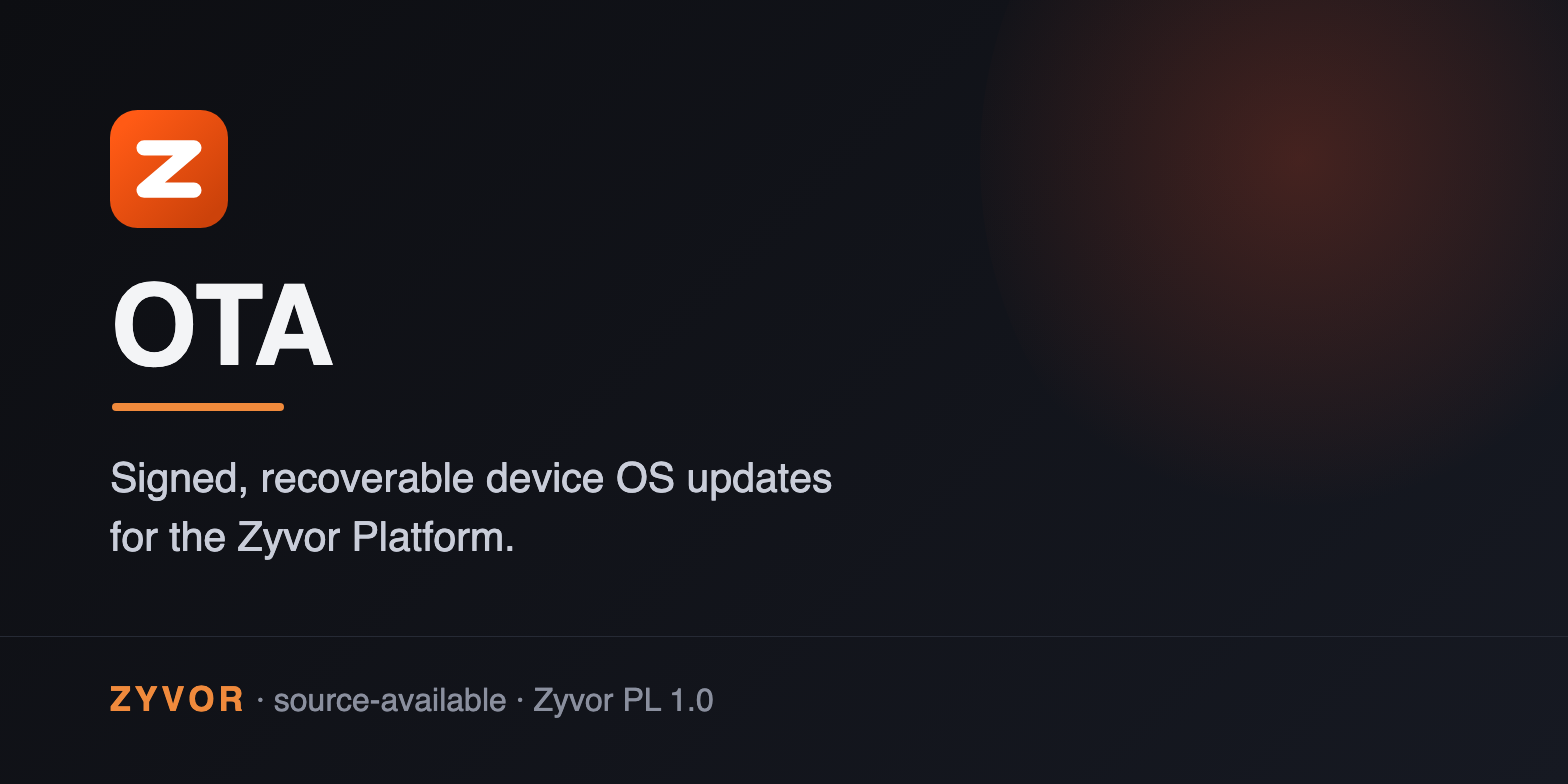
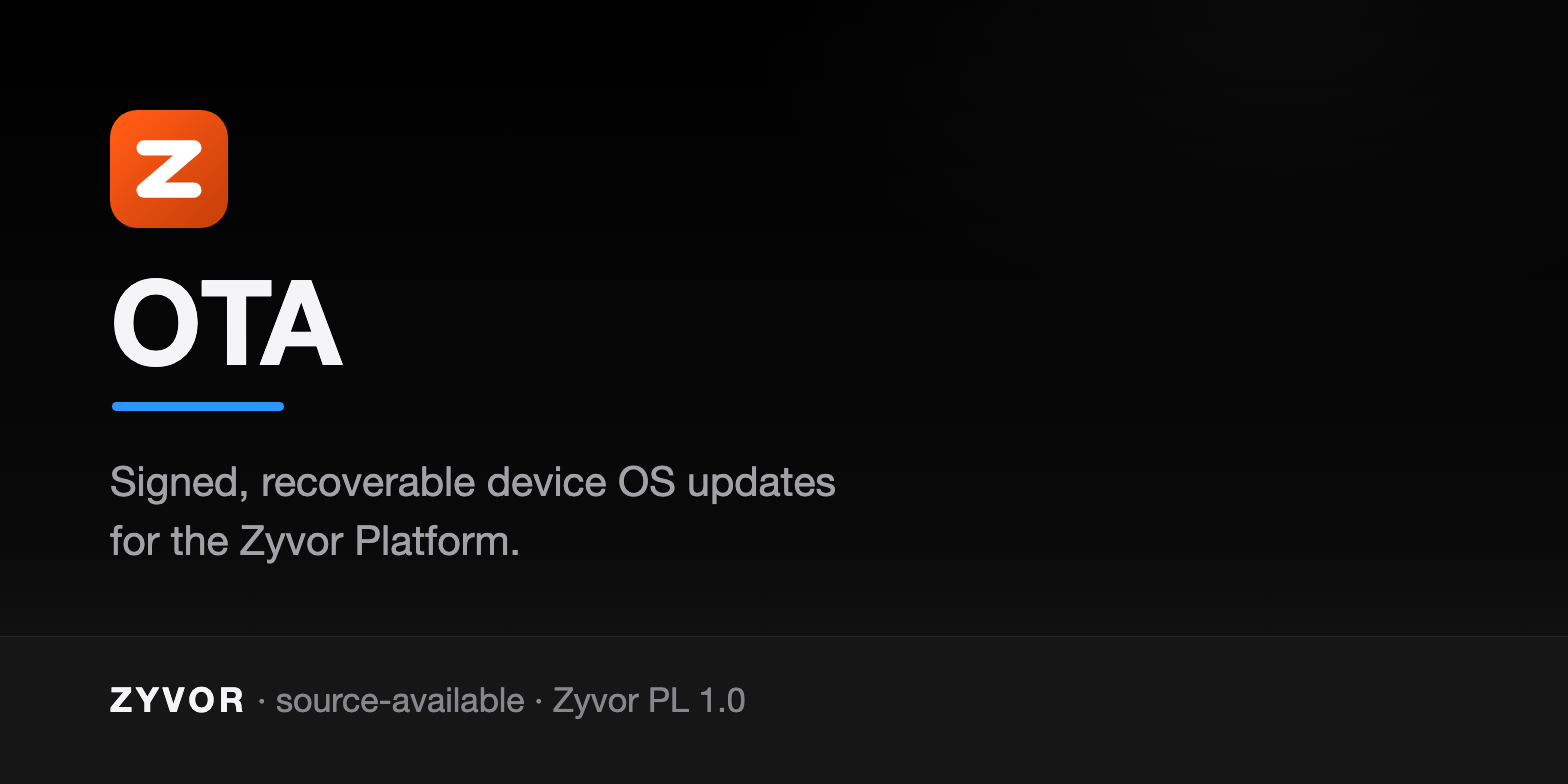
docs: remove community tier, apple-dark social cards

diff --git a/docs/social/ota-social-card.html b/docs/social/ota-social-card.html
@@ -4,12 +4,12 @@
 <meta charset="utf-8">
 <title>Zyvor OTA social card</title>
 <style>
-  :root { --ink:#0d0d0c; --soft:#5a544c; --signal:#ff5a15; --deep:#cc420a; --warm:#fbf7f2;
-    --blue:#2b5fd9; --green:#1f7a4d;
+  :root { --ink:#f5f5f7; --soft:#86868b; --signal:#2997ff; --btn:#0071e3; --deep:#2997ff; --warm:#000;
+    --blue:#5e5ce6; --green:#248a3d;
     --sans:'Helvetica Neue',Helvetica,Arial,sans-serif; --mono:'SF Mono',Menlo,Consolas,monospace; }
   * { box-sizing:border-box; }
   html,body { margin:0; padding:0; }
-  body { width:1600px; height:900px; overflow:hidden; background:var(--warm); color:var(--ink); font-family:var(--sans); position:relative; }
+  body { width:1600px; height:900px; overflow:hidden; background:radial-gradient(900px 520px at 78% 0%,rgba(255,255,255,.04),transparent 62%),#000; color:var(--ink); font-family:var(--sans); position:relative; }
   .bar { position:absolute; left:0; top:0; bottom:0; width:14px; background:var(--signal); }
   .wrap { position:absolute; left:72px; right:64px; top:48px; bottom:40px; display:flex; flex-direction:column; }
   .top { display:flex; align-items:center; gap:14px; font-family:var(--mono); font-size:20px; letter-spacing:.14em; text-transform:uppercase; color:var(--soft); }
@@ -18,9 +18,9 @@
   .top .r { margin-left:auto; letter-spacing:.08em; }
   h1 { margin:26px 0 0; font-size:64px; line-height:1.06; letter-spacing:-.025em; font-weight:700; max-width:1440px; }
   h1 em { font-style:normal; color:var(--signal); }
-  .sub { margin:16px 0 0; font-size:27px; line-height:1.36; color:#26231f; max-width:1320px; }
+  .sub { margin:16px 0 0; font-size:27px; line-height:1.36; color:#a1a1a6; max-width:1320px; }
   .flow { margin-top:34px; display:grid; grid-template-columns:repeat(5,1fr); gap:34px; }
-  .step { position:relative; background:#fff; border:2.5px solid var(--c); border-radius:16px; padding:18px 20px 18px 24px; min-height:222px; }
+  .step { position:relative; background:#1d1d1f; border:2.5px solid var(--c); border-radius:16px; padding:18px 20px 18px 24px; min-height:222px; }
   .step::before { content:""; position:absolute; left:0; top:0; bottom:0; width:9px; background:var(--c); border-radius:13px 0 0 13px; }
   .step:not(:last-child)::after { content:""; position:absolute; right:-31px; top:50%; width:0; height:0; margin-top:-11px;
     border-left:16px solid var(--soft); border-top:11px solid transparent; border-bottom:11px solid transparent; }
@@ -28,14 +28,14 @@
   .n { float:right; width:34px; height:34px; border-radius:50%; background:var(--c); color:#fff; font-weight:700; font-size:19px; line-height:34px; text-align:center; }
   .step h3 { margin:14px 0 8px; font-size:27px; line-height:1.14; letter-spacing:-.01em; }
   .step p { margin:0; font-size:20.5px; line-height:1.34; color:var(--soft); }
-  .k { --c:var(--signal); } .a { --c:var(--ink); } .c { --c:var(--blue); } .o { --c:var(--green); } .o2 { --c:var(--deep); }
-  .attr { margin-top:22px; display:flex; align-items:center; gap:16px; background:var(--ink); color:#f3ede4; border-radius:12px; padding:13px 22px; font-family:var(--mono); font-size:22px; white-space:nowrap; }
+  .k { --c:var(--btn); } .a { --c:#86868b; } .c { --c:var(--blue); } .o { --c:var(--green); } .o2 { --c:var(--deep); }
+  .attr { margin-top:22px; display:flex; align-items:center; gap:16px; background:#1d1d1f; border:1px solid rgba(255,255,255,.08); color:#f5f5f7; border-radius:12px; padding:13px 22px; font-family:var(--mono); font-size:22px; white-space:nowrap; }
   .attr .tag { color:var(--signal); font-weight:700; letter-spacing:.1em; font-size:16px; }
-  .attr .why { margin-left:auto; color:#a39a8d; font-size:15px; letter-spacing:.06em; text-transform:uppercase; }
+  .attr .why { margin-left:auto; color:#86868b; font-size:15px; letter-spacing:.06em; text-transform:uppercase; }
   .chips { margin-top:auto; padding-top:22px; display:flex; flex-wrap:wrap; gap:10px; }
-  .chip { font-size:20px; font-weight:700; padding:5px 14px; border-radius:20px; background:var(--signal); color:#fff; border:2px solid var(--signal); }
-  .chip.g { background:#fff; color:var(--deep); border:2px solid var(--signal); }
-  .foot { margin-top:18px; padding-top:14px; border-top:3px solid var(--ink); display:flex; align-items:center; font-family:var(--mono); font-size:22px; color:var(--soft); }
+  .chip { font-size:20px; font-weight:700; padding:5px 14px; border-radius:20px; background:var(--btn); color:#fff; border:2px solid var(--btn); }
+  .chip.g { background:#1d1d1f; color:var(--deep); border:2px solid var(--signal); }
+  .foot { margin-top:18px; padding-top:14px; border-top:1px solid rgba(255,255,255,.12); display:flex; align-items:center; font-family:var(--mono); font-size:22px; color:var(--soft); }
   .foot b { color:var(--ink); }
   .foot .r { margin-left:auto; }
 </style>

diff --git a/site/index.html b/site/index.html
@@ -175,14 +175,14 @@ otactl -socket /run/zyvor-ota/agent.sock job job-001</code></pre><button class="
 
   <section id="license">
     <h2>License</h2>
-    <p class="sub">Zyvor OTA is source-available under the <a href="https://github.com/zyvorai/ota/blob/main/LICENSE">Zyvor Production License v1.0</a>. Non-production use (evaluation, development, testing, research, education) is free; production use requires a commercial license from Zyvor AI Labs (<a href="mailto:sales@zyvor.dev">sales@zyvor.dev</a>, <a href="https://zyvor.dev/buy">zyvor.dev/buy</a>). Preserve notices and the <a href="https://github.com/zyvorai/ota/blob/main/NOTICE">NOTICE</a> file where required.</p>
+    <p class="sub">Zyvor OTA is source-available under the <a href="https://github.com/zyvorai/ota/blob/main/LICENSE">Zyvor Production License v1.0</a>. A commercial license from Zyvor AI Labs is required to run it (<a href="mailto:sales@zyvor.dev">sales@zyvor.dev</a>, <a href="https://zyvor.dev/buy">zyvor.dev/buy</a>). Preserve notices and the <a href="https://github.com/zyvorai/ota/blob/main/NOTICE">NOTICE</a> file where required.</p>
     <p class="sub">Original Zyvor OTA source is Zyvor Production License. Vendored dependencies retain their own licenses (see <a href="https://github.com/zyvorai/ota/blob/main/THIRD_PARTY_NOTICES.md">THIRD_PARTY_NOTICES.md</a>). RAUC is an external runtime dependency and is not relicensed by this project.</p>
   </section>
 
   <section id="support">
     <h2>Support the project</h2>
     <div class="support">
-      <p>Non-production use is free under the Zyvor Production License v1.0; production use requires a commercial license (sales@zyvor.dev). If it helps you, you can donate any amount you like: <a href="https://rzp.io/rzp/utwdYh3">https://rzp.io/rzp/utwdYh3</a>. A donation is voluntary and supports development and maintenance. It is not a purchase: it buys no support, SLA, features, priority or license, and it is not tax-deductible (Zyvor AI Labs Private Limited is a company, not a charity). Zyvor Enterprise (supported releases, SLAs, a named contact and enterprise features) is separate: <a href="mailto:sales@zyvor.dev">sales@zyvor.dev</a>.</p>
+      <p>A commercial license is required to run it (sales@zyvor.dev); a 30-day trial key is how to evaluate. If it helps you, you can donate any amount you like: <a href="https://rzp.io/rzp/utwdYh3">https://rzp.io/rzp/utwdYh3</a>. A donation is voluntary and supports development and maintenance. It is not a purchase: it buys no support, SLA, features, priority or license, and it is not tax-deductible (Zyvor AI Labs Private Limited is a company, not a charity). Zyvor Enterprise (supported releases, SLAs, a named contact and enterprise features) is separate: <a href="mailto:sales@zyvor.dev">sales@zyvor.dev</a>.</p>
       <p class="cta"><a class="btn primary" href="https://rzp.io/rzp/utwdYh3">Donate any amount</a><a class="link" href="mailto:sales@zyvor.dev">Looking for enterprise support? Contact sales</a></p>
     </div>
   </section>

diff --git a/docs/social/ota-share-card.html b/docs/social/ota-share-card.html
@@ -4,11 +4,11 @@
 <meta charset="utf-8">
 <title>Zyvor OTA share card</title>
 <style>
-  :root { --ink:#0d0d0c; --soft:#5a544c; --signal:#ff5a15; --deep:#cc420a; --warm:#fbf7f2;
+  :root { --ink:#f5f5f7; --soft:#86868b; --signal:#2997ff; --btn:#0071e3; --deep:#2997ff; --warm:#000;
     --sans:'Helvetica Neue',Helvetica,Arial,sans-serif; --mono:'SF Mono',Menlo,Consolas,monospace; }
   * { box-sizing:border-box; }
   html,body { margin:0; padding:0; }
-  body { width:1200px; height:630px; overflow:hidden; background:var(--warm); color:var(--ink); font-family:var(--sans); position:relative; }
+  body { width:1200px; height:630px; overflow:hidden; background:radial-gradient(900px 520px at 78% 0%,rgba(255,255,255,.04),transparent 62%),#000; color:var(--ink); font-family:var(--sans); position:relative; }
   .bar { position:absolute; left:0; top:0; bottom:0; width:12px; background:var(--signal); }
   .wrap { position:absolute; left:56px; right:48px; top:40px; bottom:36px; display:flex; flex-direction:column; }
   .top { display:flex; align-items:center; gap:12px; font-family:var(--mono); font-size:18px; letter-spacing:.14em; text-transform:uppercase; color:var(--soft); }
@@ -17,11 +17,11 @@
   .top .r { margin-left:auto; letter-spacing:.08em; }
   h1 { margin:36px 0 0; font-size:52px; line-height:1.08; letter-spacing:-.025em; font-weight:700; max-width:1080px; }
   h1 em { font-style:normal; color:var(--signal); }
-  .sub { margin:18px 0 0; font-size:24px; line-height:1.4; color:#26231f; max-width:980px; }
+  .sub { margin:18px 0 0; font-size:24px; line-height:1.4; color:#a1a1a6; max-width:980px; }
   .chips { margin-top:auto; display:flex; flex-wrap:wrap; gap:10px; padding-bottom:18px; }
-  .chip { font-size:18px; font-weight:700; padding:6px 14px; border-radius:20px; background:var(--signal); color:#fff; border:2px solid var(--signal); }
-  .chip.g { background:#fff; color:var(--deep); border:2px solid var(--signal); }
-  .foot { padding-top:14px; border-top:3px solid var(--ink); display:flex; align-items:center; font-family:var(--mono); font-size:20px; color:var(--soft); }
+  .chip { font-size:18px; font-weight:700; padding:6px 14px; border-radius:20px; background:var(--btn); color:#fff; border:2px solid var(--btn); }
+  .chip.g { background:#1d1d1f; color:var(--deep); border:2px solid var(--signal); }
+  .foot { padding-top:14px; border-top:1px solid rgba(255,255,255,.12); display:flex; align-items:center; font-family:var(--mono); font-size:20px; color:var(--soft); }
   .foot b { color:var(--ink); }
   .foot .r { margin-left:auto; }
 </style>

diff --git a/docs/social/ota-preview.html b/docs/social/ota-preview.html
@@ -1,0 +1,21 @@
+<!doctype html>
+<html lang="en"><head><meta charset="utf-8"><title>OTA social preview</title>
+<style>
+* { box-sizing:border-box; }
+html,body { margin:0; padding:0; }
+body { width:1568px; height:784px; overflow:hidden; position:relative; color:#f5f5f7;
+  font-family:'Helvetica Neue',Helvetica,Arial,sans-serif;
+  background:radial-gradient(900px 520px at 82% 0%,rgba(255,255,255,.04),transparent 62%),linear-gradient(180deg,#000 0%,#0a0a0b 70%,#1d1d1f 100%); }
+.mark { position:absolute; left:110px; top:110px; width:118px; height:118px; }
+h1 { position:absolute; left:110px; top:262px; margin:0; font-size:118px; line-height:1; font-weight:700; letter-spacing:-.01em; }
+.rule { position:absolute; left:112px; top:402px; width:172px; height:9px; border-radius:5px; background:#2997ff; }
+p { position:absolute; left:110px; top:452px; margin:0; font-size:41px; line-height:59px; color:#a1a1a6; }
+.foot { position:absolute; left:0; right:0; bottom:0; height:148px; border-top:1px solid rgba(255,255,255,.08); background:#161617; }
+.foot div { position:absolute; left:110px; top:42px; font-size:34px; color:#86868b; }
+.foot b { color:#f5f5f7; letter-spacing:.12em; font-size:34px; }
+</style></head><body>
+<svg class="mark" viewBox="0 0 64 64" aria-hidden="true"><defs><linearGradient id="zb" x1="8" y1="8" x2="56" y2="56" gradientUnits="userSpaceOnUse"><stop offset="0" stop-color="#ff5a15"/><stop offset="1" stop-color="#cc420a"/></linearGradient></defs><rect width="64" height="64" rx="15" fill="url(#zb)"/><path d="M18.5,20.5 45.5,20.5 18.5,43.5 45.5,43.5" fill="none" stroke="#fff" stroke-width="8.3" stroke-linecap="round" stroke-linejoin="round"/></svg>
+<h1>OTA</h1><div class="rule"></div>
+<p>Signed, recoverable device OS updates<br>for the Zyvor Platform.</p>
+<div class="foot"><div><b>ZYVOR</b> &middot; source-available &middot; Zyvor PL 1.0</div></div>
+</body></html>

diff --git a/README.md b/README.md
@@ -295,11 +295,11 @@ Zyvor OTA is source-available under the **[Zyvor Production License v1.0](LICENS
 **Zyvor Enterprise** adds what production teams ask for: supported releases, deployment and upgrade guidance, priority incident triage, a named technical contact and 24x7 critical intake. Customers pay for operational leverage, not for rollback or signature checks.
 Those stay in the OTA agent. Enterprise is the Fleet dashboard, SSO and
 approvals, site relay, compliance evidence, certified board enablement, and
-support. See the [FAQ](docs/FAQ.md#community-and-enterprise). Plans and terms: [docs/SUBSCRIPTION-MODEL.md](docs/SUBSCRIPTION-MODEL.md) · [Pricing](https://zyvor.dev/pricing?utm_source=github&utm_medium=ota&utm_campaign=readme_license) · [sales@zyvor.dev](mailto:sales@zyvor.dev). Support from USD 8-18 per device per year (INR 793-1,784 incl. GST in India), USD 5,000 (INR 495,600) annual minimum; buy / get a quote at [zyvor.dev/buy](https://zyvor.dev/buy).
+support. See the [FAQ](docs/FAQ.md#what-is-included-and-what-enterprise-adds). Plans and terms: [docs/SUBSCRIPTION-MODEL.md](docs/SUBSCRIPTION-MODEL.md) · [Pricing](https://zyvor.dev/pricing?utm_source=github&utm_medium=ota&utm_campaign=readme_license) · [sales@zyvor.dev](mailto:sales@zyvor.dev). Support from USD 8-18 per device per year (INR 793-1,784 incl. GST in India), USD 5,000 (INR 495,600) annual minimum; buy / get a quote at [zyvor.dev/buy](https://zyvor.dev/buy).
 
 ## Support
 
-Non-production use is free under the Zyvor Production License v1.0; production use requires a commercial license (sales@zyvor.dev). If it helps you, you can donate any amount you like: <https://rzp.io/rzp/utwdYh3>. A donation is voluntary and supports development and maintenance. It is not a purchase: it buys no support, SLA, features, priority or license, and it is not tax-deductible (Zyvor AI Labs Private Limited is a company, not a charity). Zyvor Enterprise (supported releases, SLAs, a named contact and enterprise features) is separate: [sales@zyvor.dev](mailto:sales@zyvor.dev).
+A commercial license is required to run it (sales@zyvor.dev); a 30-day trial key is how to evaluate. If it helps you, you can donate any amount you like: <https://rzp.io/rzp/utwdYh3>. A donation is voluntary and supports development and maintenance. It is not a purchase: it buys no support, SLA, features, priority or license, and it is not tax-deductible (Zyvor AI Labs Private Limited is a company, not a charity). Zyvor Enterprise (supported releases, SLAs, a named contact and enterprise features) is separate: [sales@zyvor.dev](mailto:sales@zyvor.dev).
 
 ---
 

diff --git a/docs/SUBSCRIPTION-MODEL.md b/docs/SUBSCRIPTION-MODEL.md
@@ -1,12 +1,11 @@
 # Zyvor OTA: support subscriptions
 
-Zyvor OTA is source-available software. Non-production use is free under the Zyvor Production License v1.0; production use requires a commercial license (sales@zyvor.dev).
+Zyvor OTA is source-available software. A commercial license is required to run it (sales@zyvor.dev); a 30-day trial key is how to evaluate.
 
 Teams that want supported releases and defined response targets can buy an annual **support subscription** from Zyvor.
 
 | Plan | What you get | Coverage |
 |------|--------------|----------|
-| Community | The software, community documentation and public issue tracking | No contracted response target |
 | Standard | Deployment and upgrade guidance, defined supported configuration | Business hours |
 | Supported | Standard plus priority queue and incident triage | Business hours, faster response |
 | Enterprise | Supported plus a named technical contact and 24x7 critical intake | One-hour initial response target for critical issues |
@@ -26,7 +25,7 @@ Prices are in the [Pricing](#pricing) section below; custom pricing: contact [sa
 
 ## Pricing
 
-The support subscription is priced per device per year, on one ladder shared by Fleet, Relay, Device Agent, OTA and Nodra, with an annual minimum of USD 5,000 (INR 495,600 incl. GST in India) that applies to every step. Non-production use of the software is free under the Zyvor Production License v1.0; production use requires a commercial license.
+The support subscription is priced per device per year, on one ladder shared by Fleet, Relay, Device Agent, OTA and Nodra, with an annual minimum of USD 5,000 (INR 495,600 incl. GST in India) that applies to every step. A commercial license is required to run the software.
 
 | Devices | Elsewhere (USD, excl. tax) | India (INR, incl. 18% GST) |
 |---|---|---|

diff --git a/docs/FAQ.md b/docs/FAQ.md
@@ -10,9 +10,7 @@ better starting point.
 
 ## Licensing & cost
 
-**Is it really free?** Non-production use (evaluation, development, testing, research,
-education) is free under the Zyvor Production License v1.0. Production use
-requires a commercial license from Zyvor AI Labs (sales@zyvor.dev,
+**Do I need a license?** Yes. Running OTA requires a commercial license from Zyvor AI Labs (sales@zyvor.dev,
 https://zyvor.dev/buy; a 30-day trial key is available). Notices must be
 preserved (see [`NOTICE`](https://github.com/zyvorai/ota/blob/main/NOTICE)). RAUC (an external runtime
 dependency) is not relicensed by this project — check its own license
@@ -25,12 +23,11 @@ Prices (per device per year, India in INR incl. GST) are in
 [docs/SUBSCRIPTION-MODEL.md](SUBSCRIPTION-MODEL.md#pricing); buy at
 https://zyvor.dev/buy or contact sales@zyvor.dev. The site relay client, rollback, signature
 verification, the simulator, the QEMU lab recipe, and the basic Fleet
-contract stay in this Zyvor Production License repository. Nothing here requires a paid
-license to update a device safely.
+contract stay in this Zyvor Production License repository.
 
-## Community and enterprise
+## What is included, and what Enterprise adds
 
-| Community (this repository) | Enterprise |
+| Included in the OTA agent | Enterprise adds |
 |---|---|
 | Agent, CLI, RAUC backend, simulator, local API | Fleet dashboard and campaign orchestration |
 | Signed releases, rollback, schema 2 payloads | SSO/RBAC, approvals, and immutable audit |

diff --git a/docs/support.md b/docs/support.md
@@ -6,6 +6,6 @@ hero:
 
 ## Support the project
 
-Non-production use is free under the Zyvor Production License v1.0; production use requires a commercial license (sales@zyvor.dev). If it helps you, you can donate any amount you like: <https://rzp.io/rzp/utwdYh3>. A donation is voluntary and supports development and maintenance. It is not a purchase: it buys no support, SLA, features, priority or license, and it is not tax-deductible (Zyvor AI Labs Private Limited is a company, not a charity). Zyvor Enterprise (supported releases, SLAs, a named contact and enterprise features) is separate: [sales@zyvor.dev](mailto:sales@zyvor.dev).
+A commercial license is required to run it (sales@zyvor.dev); a 30-day trial key is how to evaluate. If it helps you, you can donate any amount you like: <https://rzp.io/rzp/utwdYh3>. A donation is voluntary and supports development and maintenance. It is not a purchase: it buys no support, SLA, features, priority or license, and it is not tax-deductible (Zyvor AI Labs Private Limited is a company, not a charity). Zyvor Enterprise (supported releases, SLAs, a named contact and enterprise features) is separate: [sales@zyvor.dev](mailto:sales@zyvor.dev).
 
 [Donate any amount](https://rzp.io/rzp/utwdYh3){ .md-button .md-button--primary }
